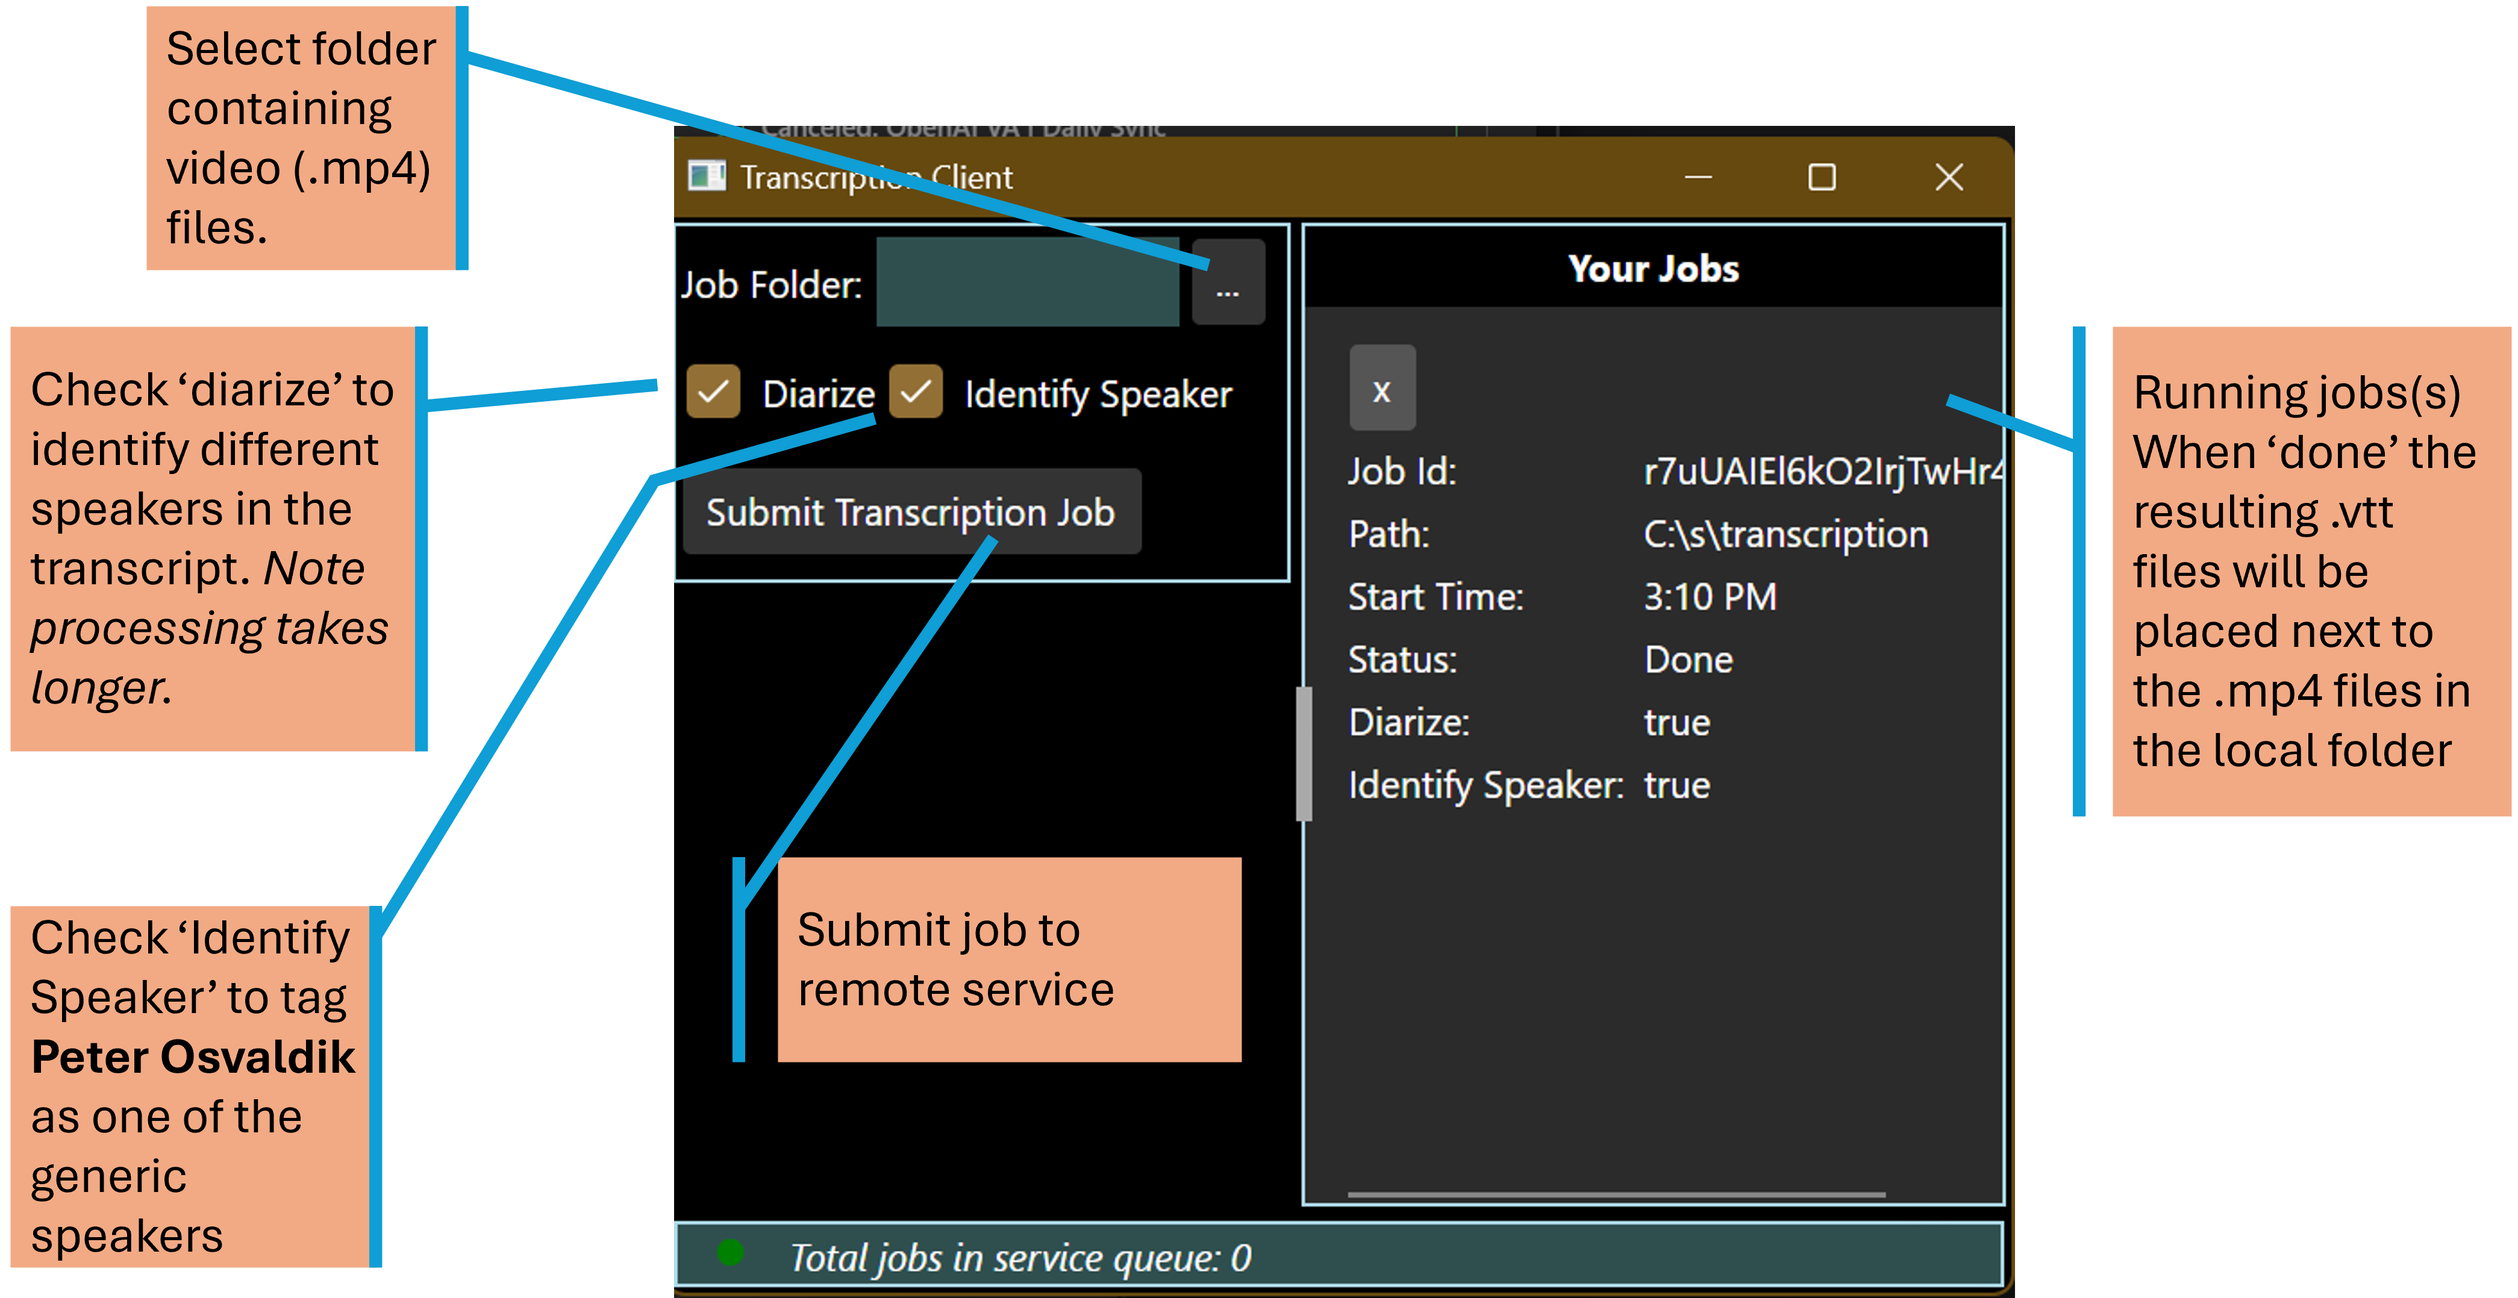
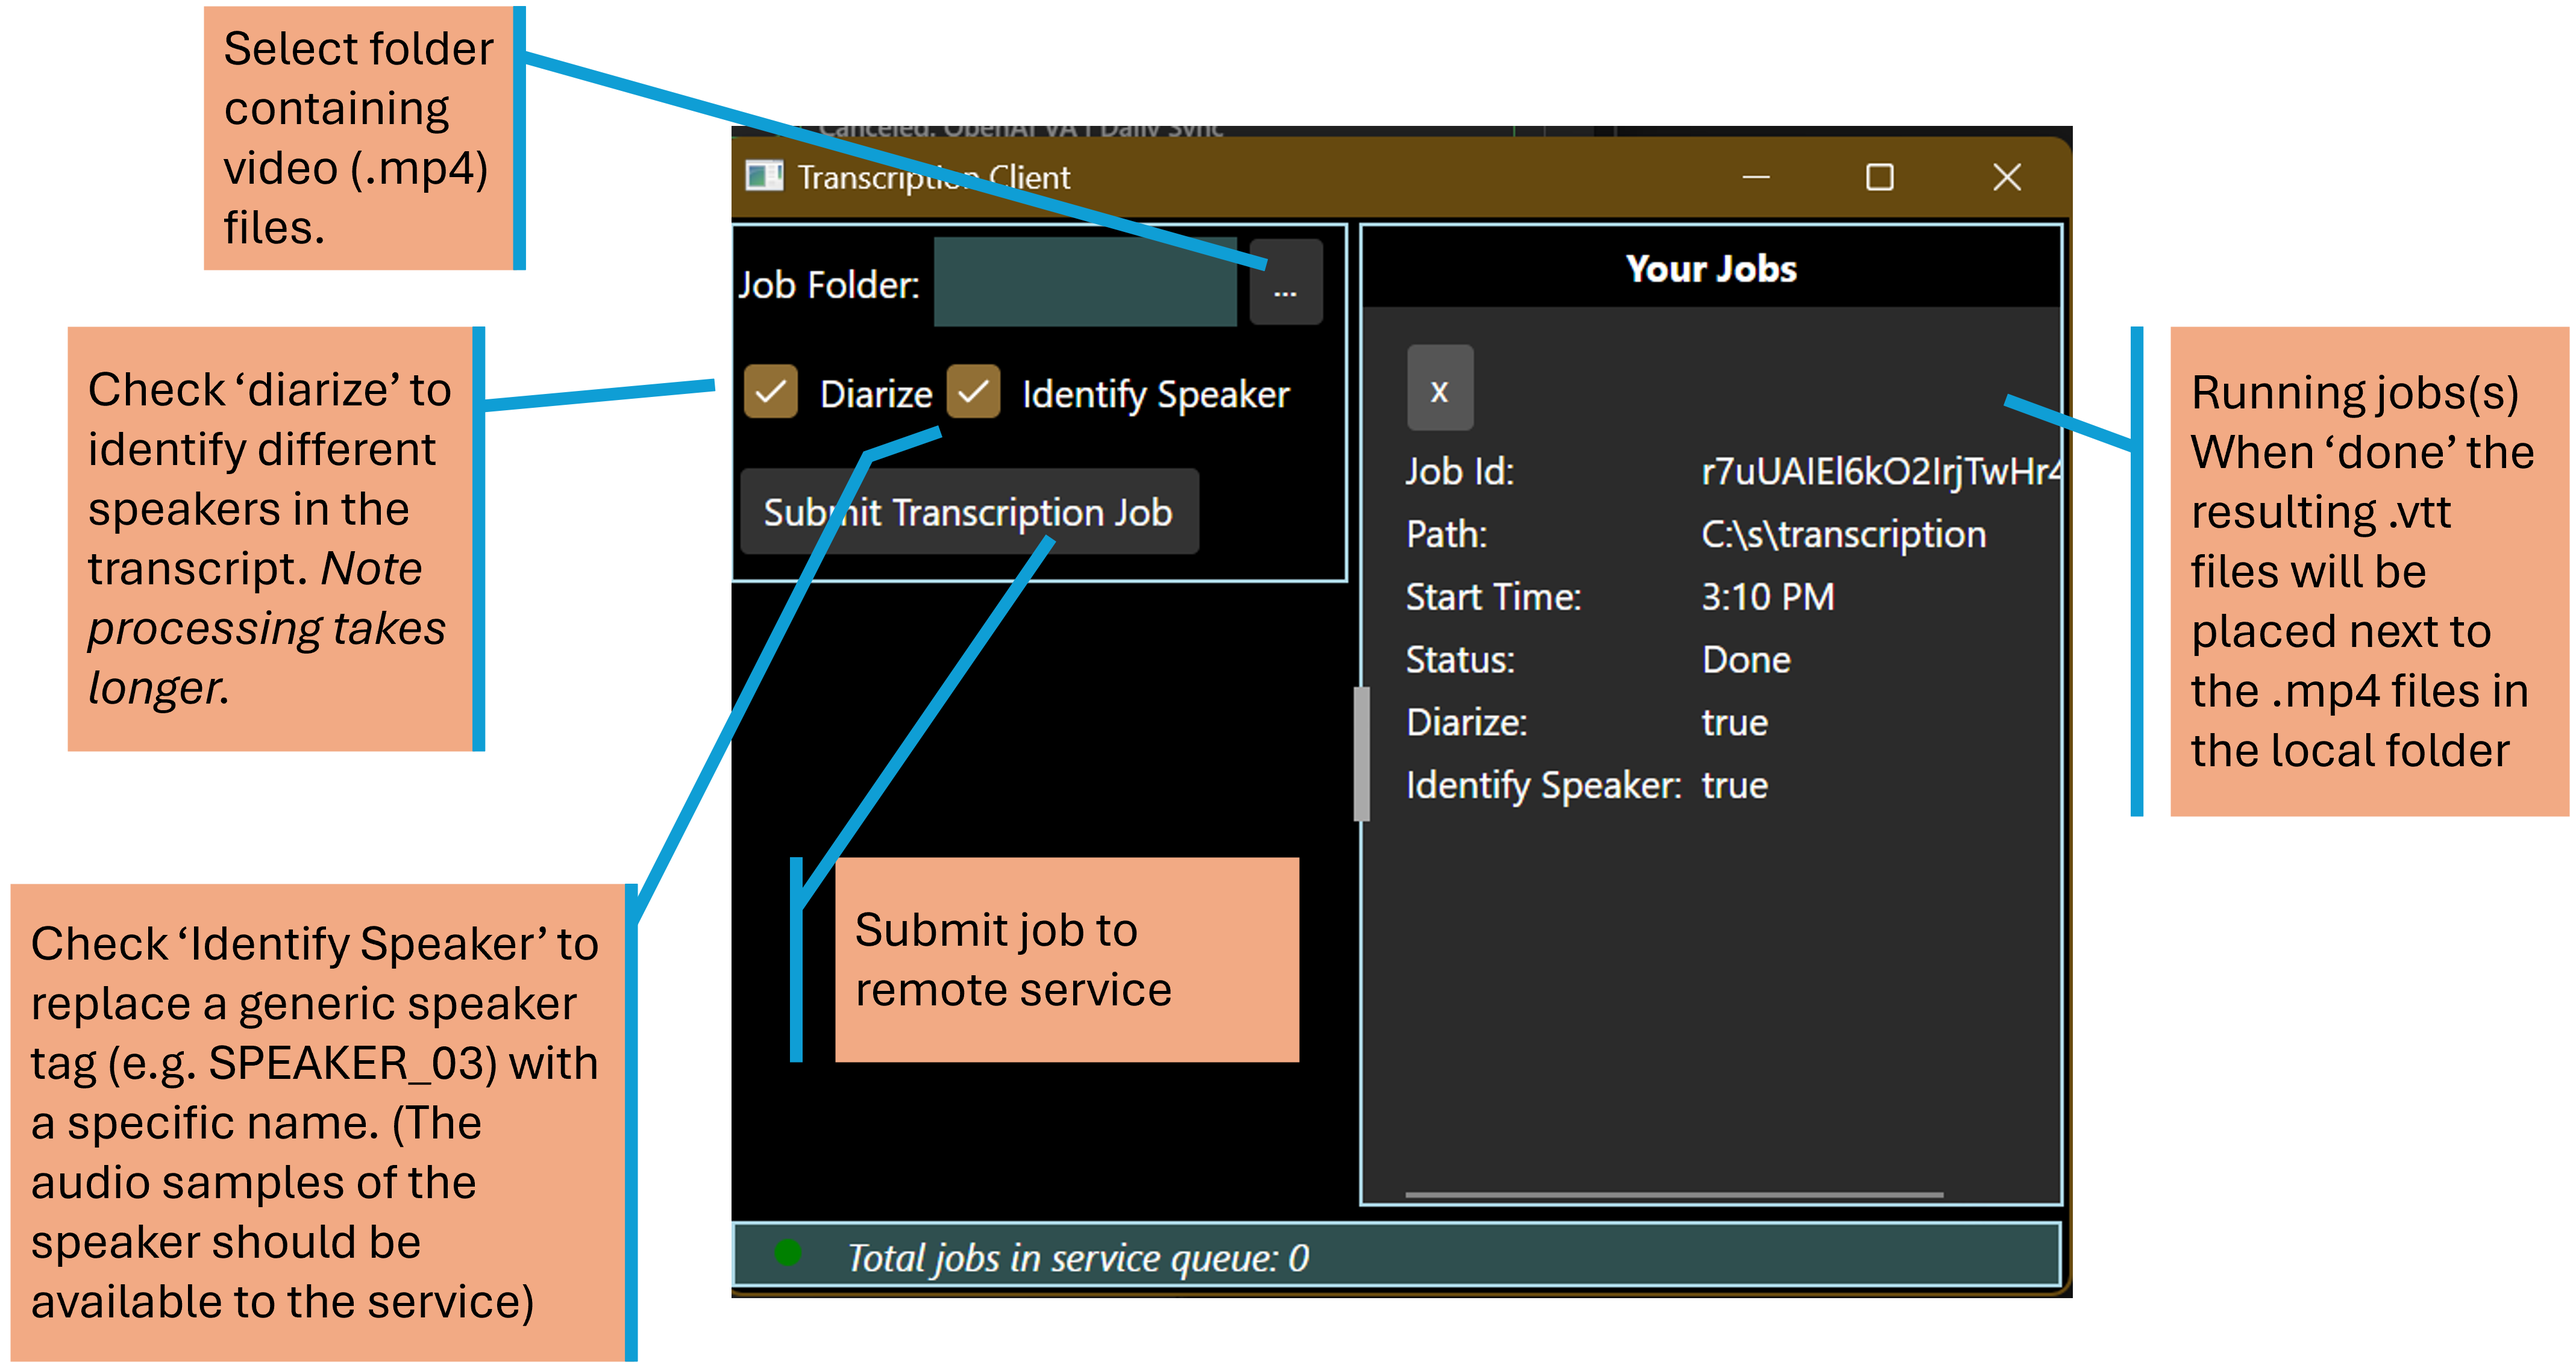
updated docs

diff --git a/readme.md b/readme.md
@@ -5,9 +5,9 @@ Wraps a few open source models to transcribe, diarize and optionally tag a speci
 Briefly,
 - Transcribe: Extract the audio from video (.mp4) files and convert the audio to text (speed-to-text).
 
-- Diarize: Adds speaker tags to the transcript for multiple speakers. The speaker tags are generic markers, e.g. SPEAKER_01, SPEAKER_02, etc.
+- Diarize: Adds speaker tags to the transcript for multiple speakers in the source file. The speaker tags are generic markers, e.g. SPEAKER_01, SPEAKER_02, etc.
 
-- Speaker Identification: Replaces the generic speaker tag with a configured speaker name using available audio sample embeddings of the speaker.
+- Speaker Identification: Replaces one of the generic speaker tags with a configured speaker name. This is done by matching the audios of the source file speakers to saved audio samples of the configured speaker.
 
 # Models
 - [Fast Transcriber](https://github.com/Purfview/whisper-standalone-win) - transcription and diarization
@@ -39,6 +39,6 @@ Common definitions shared between client and server
 Older project that contains batch scripts that were used to develop and refine the transcription processing.
 
 # Configuration
-The TranscriptionClient is meant to connect to the remote service (running on a GPU box) via SSH and SCP. The SSH connection, with port forwarding, is used for SignalR. SCP protocol is used for upload/download.
+The TranscriptionClient is meant to connect to the remote service (running on a GPU box) via SSH and SCP. The SSH connection, with port forwarding, is used for SignalR. The SCP protocol is used for upload/download of files.
 
 The user id and password required for an SSH/SCP connection are stored in appsettings.json. For this reason *appsettings.json is excluded from the repo*. Instead **appsettings.json.template** is provided that contains the 'schema' of the settings. Copy the template file to appsettings.json and configure it appropriately for your setup.
